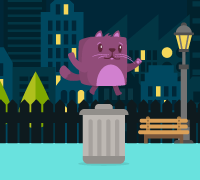
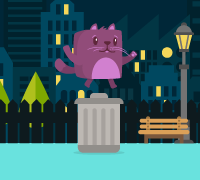
Update imagenes algunas portadas q hizo jackie para que no se tapen con el título de la actividad

diff --git a/public/libs/ejerciciosPilas.js b/public/libs/ejerciciosPilas.js
@@ -465,9 +465,9 @@ var CofreAnimado = (function (_super) {
     __extends(CofreAnimado, _super);
     function CofreAnimado(x, y) {
         _super.call(this, x, y, { grilla: 'cofreAnimado.png', cantColumnas: 4 });
-        this.definirAnimacion("abrir", [0, 1, 2, 3], 6);
-        this.definirAnimacion("parado", new Cuadros(0).repetirVeces(50).concat([1, 2, 1]), 4, true);
-        this.definirAnimacion("abierto", new Cuadros(3).repetirVeces(50).concat([2, 1, 2]), 4);
+        this.definirAnimacion("abrir", [0, 1, 2, 3], 3);
+        this.definirAnimacion("parado", [0, 0, 0, 0, 0, 0, 0, 0, 0, 0, 0, 0, 2], 1, true);
+        this.definirAnimacion("abierto", [3], 4);
     }
     return CofreAnimado;
 })(ActorAnimado);
@@ -3141,9 +3141,12 @@ var LaGranAventuraDelMarEncantado = (function (_super) {
         this.cuadricula = new Cuadricula(0, 0, 4, 5, { alto: 400, ancho: 380 }, { grilla: 'casillas.violeta.png' });
         this.llave = new LlaveAnimado(0, 0);
         this.cuadricula.agregarActor(this.llave, 1, 4);
+        this.llave.escala *= 0.7;
         this.llave.aprender(Flotar, { Desvio: 5 });
         this.cofre = new CofreAnimado(0, 0);
         this.cuadricula.agregarActor(this.cofre, 0, 0);
+        this.cofre.escala * 2;
+        this.cofre.x += 8;
         this.caballero = new CaballeroAnimado(0, 0);
         this.cuadricula.agregarActorEnPerspectiva(this.caballero, 1, 2);
         this.caballero.escala *= 1.5;

diff --git a/app/actividades/actividadLaGranAventuraDelMarEncantado.js b/app/actividades/actividadLaGranAventuraDelMarEncantado.js
@@ -38,7 +38,7 @@ var AgarrarLlave = Accion.extend({
     this._super(block);
     block.appendDummyInput()
     .appendField('Agarrar llave')
-    .appendField(this.obtener_icono('llave.png'));
+    .appendField(this.obtener_icono('../libs/data/llave.png'));
   },
 
   nombre_comportamiento() {
